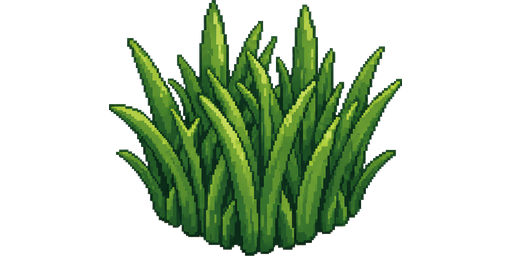
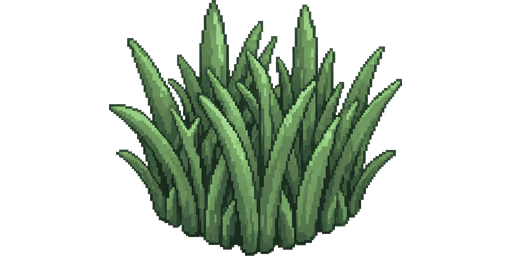
Ground wild grass and soften its green palette

Changed region(s): [[0.2188, 0.0, 0.7812, 1.0]]

diff --git a/preview/app.js b/preview/app.js
@@ -53,7 +53,7 @@
   const coniferTreeImage = new Image();
   coniferTreeImage.onload=()=>{if(REDUCED_MOTION)drawFrame();};
   coniferTreeImage.src='./assets/conifer-tree.png?v=1';
-  const wildGrassImage=new Image();wildGrassImage.onload=()=>{if(REDUCED_MOTION)drawFrame();};wildGrassImage.src='./assets/wild-grass-selected.png?v=1';
+  const wildGrassImage=new Image();wildGrassImage.onload=()=>{if(REDUCED_MOTION)drawFrame();};wildGrassImage.src='./assets/wild-grass-selected.png?v=2';
   const treeSprite=tree=>tree.kind==='wild-grass'?wildGrassImage:tree.kind==='conifer'?coniferTreeImage:orangeTreeImage;
   const treeSize=tree=>tree.size===1?1:2;
   const treeVisualScale=tree=>tree.kind==='wild-grass'?14/60:treeSize(tree)/2;
@@ -1914,7 +1914,10 @@
   // Footprint centre, shared by rendering, hit testing and shadows.
   function orangeTreeAnchor(tree) {
     const offset=(treeSize(tree)-1)/2;
-    return characterCentre({column:tree.column+offset,row:tree.row+offset,blockHeight:surfaceHeight(tree.column,tree.row)});
+    const centre=characterCentre({column:tree.column+offset,row:tree.row+offset,blockHeight:surfaceHeight(tree.column,tree.row)});
+    // The foliage base sits slightly forward on its tile, with selection and shadow sharing the same anchor.
+    if(tree.kind==='wild-grass') centre.y+=0.75;
+    return centre;
   }
   let editingTreeSelection=null;
   let orangeTreeMotionState={time:0,speed:0,direction:90,heading:0};
@@ -1928,7 +1931,12 @@
     const centre=orangeTreeAnchor(tree);
     const scale=treeVisualScale(tree),bottom=centre.y, width=treeWidth(tree),height=treeHeight(tree);
     const sway=orangeTreeSway(tree)*scale;
-    ctx.save();applyIslandTransform();ctx.translate(centre.x,bottom);ctx.transform(1,0,-sway/height,1,0,0);
+    ctx.save();applyIslandTransform();
+    if(tree.kind==='wild-grass') {
+      // A small contact shadow touches the root even when the projected shadow points away.
+      ctx.fillStyle='rgba(28,49,35,0.28)';ctx.beginPath();ctx.ellipse(centre.x,bottom,8,1.5,0,0,Math.PI*2);ctx.fill();
+    }
+    ctx.translate(centre.x,bottom);ctx.transform(1,0,-sway/height,1,0,0);
     ctx.imageSmoothingEnabled=true;ctx.imageSmoothingQuality='high';
     if(tree.facing==='W'||tree.facing==='E')ctx.scale(-1,1);
     ctx.drawImage(sprite,-width/2,-height,width,height);ctx.restore();

diff --git a/tools/test_wild_grass_browser.js b/tools/test_wild_grass_browser.js
@@ -8,6 +8,7 @@ const assert=require('node:assert/strict'),{chromium}=require('playwright-core')
  await clickTile({column:24,row:24});assert.equal(await page.evaluate(()=>worldManager.getActive().orangeTrees),undefined);
  await clickTile({column:27,row:24});assert.equal(await page.evaluate(()=>worldManager.getActive().orangeTrees),undefined);
  await clickTile({column:26,row:27});const expected=[{column:26,row:27,kind:'wild-grass',size:1}];assert.deepEqual(await page.evaluate(()=>worldManager.getActive().orangeTrees),expected);
+ assert.equal(await page.evaluate(()=>{const t=worldManager.getActive().orangeTrees[0];return sceneEditing.orangeTreeAnchor(t).y-sceneEditing.centre(t).y}),0.75,'grass base is planted on the tile');
  assert.equal(await page.evaluate(()=>OrangeDrops.available(worldManager.getActive(),worldManager.getActive().orangeTrees[0],Date.now())),false,'no fruit');
  assert.equal(await page.evaluate(()=>GameplayPath.find(worldManager.getActive(),worldManager.getCharacter(),{column:26,row:27},null)),null);
  assert.notEqual(await page.evaluate(()=>GameplayPath.find(worldManager.getActive(),worldManager.getCharacter(),{column:27,row:27},null)),null);

diff --git a/preview/index.html b/preview/index.html
@@ -196,7 +196,7 @@
             <span class="catalog-art"><img src="assets/conifer-tree.png?v=1" alt=""></span><strong>Pohon cemara</strong><span class="catalog-footprint">Tapak 1×1</span>
           </button>
           <button id="catalog-place-wild-grass" type="button" class="catalog-tile" aria-label="Tempatkan rumput liar, tapak 1 kali 1">
-            <span class="catalog-art"><img src="assets/wild-grass-selected.png?v=1" alt=""></span><strong>Rumput liar</strong><span class="catalog-footprint">Tapak 1×1</span>
+            <span class="catalog-art"><img src="assets/wild-grass-selected.png?v=2" alt=""></span><strong>Rumput liar</strong><span class="catalog-footprint">Tapak 1×1</span>
           </button>
         </div>
       </section>

diff --git a/app/src/main/java/dev/retrobit/gtlauncher/WeatherSkyView.java b/app/src/main/java/dev/retrobit/gtlauncher/WeatherSkyView.java
@@ -503,7 +503,7 @@ public final class WeatherSkyView extends View {
                     boolean small=o.material.equals("banana") || o.material.equals("palm");width=small?24:(o.material.equals("orange") && "ripe".equals(treeStage(o.material)) && !isHarvested(o)?60f*512f/490f:48);height=small?30:60;bottom=y+ISLAND_TILE_HEIGHT*(small?.275f:o.material.equals("orange")?.5f:1.05f);
                 } break;
             case "sunflower": width=15;height=23;bottom=y+ISLAND_TILE_HEIGHT*.325f;break;
-            case "bush": width=o.material.equals("wild-grass")?28f:18.5f;height=o.material.equals("wild-grass")?14f:14.5f;bottom=y+(o.material.equals("wild-grass") && o.edge!=null?0:ISLAND_TILE_HEIGHT*.325f);break;
+            case "bush": width=o.material.equals("wild-grass")?28f:18.5f;height=o.material.equals("wild-grass")?14f:14.5f;bottom=y+(o.material.equals("wild-grass")?.75f:ISLAND_TILE_HEIGHT*.325f);break;
             case "mailbox": width=13;height=30;bottom=y+ISLAND_TILE_HEIGHT*.15f;break;
             default: width=18;height=18;bottom=y+ISLAND_TILE_HEIGHT*.15f;
         }
@@ -536,7 +536,10 @@ public final class WeatherSkyView extends View {
             if(image==null)continue;RectF g=surfaceSpriteBounds(o);
             int alpha=Math.round(255*(100-Math.max(0,o.opacity))/100f);
             if(!(o.type.equals("tree") && (o.material.equals("orange") || o.material.startsWith("conifer")))) {
-                paint.setColor(Color.argb(Math.round(35*alpha/255f),12,23,40));paint.setStyle(Paint.Style.FILL);canvas.drawOval(new RectF(g.centerX()-g.width()*.3f,g.bottom-1,g.centerX()+g.width()*.3f,g.bottom+1),paint);
+                boolean grass=o.type.equals("bush") && o.material.equals("wild-grass");
+                paint.setColor(grass?Color.argb(Math.round(71*alpha/255f),28,49,35):Color.argb(Math.round(35*alpha/255f),12,23,40));paint.setStyle(Paint.Style.FILL);
+                float contactWidth=grass?8f:g.width()*.3f,contactDepth=grass?1.5f:1f;
+                canvas.drawOval(new RectF(g.centerX()-contactWidth,g.bottom-contactDepth,g.centerX()+contactWidth,g.bottom+contactDepth),paint);
             }
             paint.setColor(Color.WHITE);paint.setAlpha(alpha);paint.setFilterBitmap(true);int saved=canvas.save();
             if(o.type.equals("tree") && (o.material.equals("orange") || o.material.startsWith("conifer"))) {

diff --git a/tools/build_wild_grass_selected.py b/tools/build_wild_grass_selected.py
@@ -1,11 +1,24 @@
 #!/usr/bin/env python3
 """Prepare the selected tuft as a transparent sprite without replacing older artwork."""
 from pathlib import Path
+import colorsys
 from PIL import Image
 from build_player_idle_selected import extract
 
 root=Path(__file__).resolve().parents[1]
 art,_=extract(root/'preview/assets/character-redraw/wild-grass-new-concept.png')
+# Match the island's softer sage-green palette while retaining the chosen blade
+# shapes, highlights and alpha. Do this before scaling so edges are softened once.
+pixels=art.load()
+for y in range(art.height):
+    for x in range(art.width):
+        r,g,b,a=pixels[x,y]
+        if not a: continue
+        h,s,v=colorsys.rgb_to_hsv(r/255,g/255,b/255)
+        if g>r and g>b:
+            h=max(.29,min(.37,h));s*=.55
+            r,g,b=(round(c*255) for c in colorsys.hsv_to_rgb(h,s,v))
+        pixels[x,y]=(r,g,b,a)
 # The previous Android grass has a 2:1 sprite box. Centre the original proportions
 # in a box of the same shape rather than stretching the vertical blades sideways.
 art.thumbnail((480,256),Image.Resampling.LANCZOS)

diff --git a/tools/test_wild_grass_selected.py b/tools/test_wild_grass_selected.py
@@ -8,7 +8,16 @@ im=Image.open(a).convert('RGBA')
 assert im.size==(512,256)
 assert im.getpixel((0,0))[3]==0 and im.getpixel((511,255))[3]==0
 box=im.getbbox();assert box and box[0]>30 and box[2]<482 and box[3]==256
+# Representative foliage is sage rather than the saturated yellow-green concept.
+colors=[(r,g,b) for r,g,b,a in im.getdata() if a>240 and g>r and g>b and g>80]
+assert colors and sum(g-b for r,g,b in colors)/len(colors)<50
+assert sum(a>128 for r,g,b,a in (im.getpixel((x,255)) for x in range(512)))>0
 assert (root/'app/src/main/res/drawable-nodpi/wild_grass.png').exists(), 'keep original artwork'
 view=(root/'app/src/main/java/dev/retrobit/gtlauncher/WeatherSkyView.java').read_text()
 assert 'R.drawable.wild_grass_selected' in view
 print('Selected wild-grass sprite: transparency, grounding, asset parity and old artwork: OK')
+
+preview=(root/'preview/app.js').read_text()
+assert "if(tree.kind==='wild-grass') centre.y+=0.75" in preview
+assert "ctx.ellipse(centre.x,bottom,8,1.5" in preview
+assert 'o.material.equals("wild-grass")?.75f' in view and 'contactWidth=grass?8f' in view

diff --git a/docs/wild-grass-object.md b/docs/wild-grass-object.md
@@ -1,6 +1,6 @@
 # Rumput liar
 
-Konsep pilihan disimpan pada `preview/assets/character-redraw/wild-grass-new-concept.png`. `tools/build_wild_grass_selected.py` menghasilkan sprite transparan untuk preview dan Android tanpa meregangkan proporsi. Gambar lama Android `wild_grass.png` tetap disimpan.
+Konsep pilihan disimpan pada `preview/assets/character-redraw/wild-grass-new-concept.png`. `tools/build_wild_grass_selected.py` menghasilkan sprite transparan untuk preview dan Android tanpa meregangkan proporsi. Palet sprite dilunakkan menjadi hijau sage agar lebih selaras dengan rumput pulau; gambar konsep dan gambar lama Android `wild_grass.png` tetap disimpan. Pangkal sprite diletakkan sedikit ke depan pada permukaan tile dan diberi bayangan kontak kecil yang mengikuti pangkal; tapak, hit test, dan bayangan tetap berbagi posisi yang sama.
 
 Di preview, buka Map Editor → Objek → Tanaman dan pohon → **Rumput liar** lalu ketuk tile kering 1×1 yang kosong. Objek dapat dipilih melalui siluet, digeser, diputar, dihapus, dan mendukung Undo/Redo. Rumput menghalangi tile seperti objek semak Android yang sudah ada, bergerak mengikuti angin, dan tidak menghasilkan jeruk. Efek rumput dekoratif otomatis pada tile tidak diubah.
 
